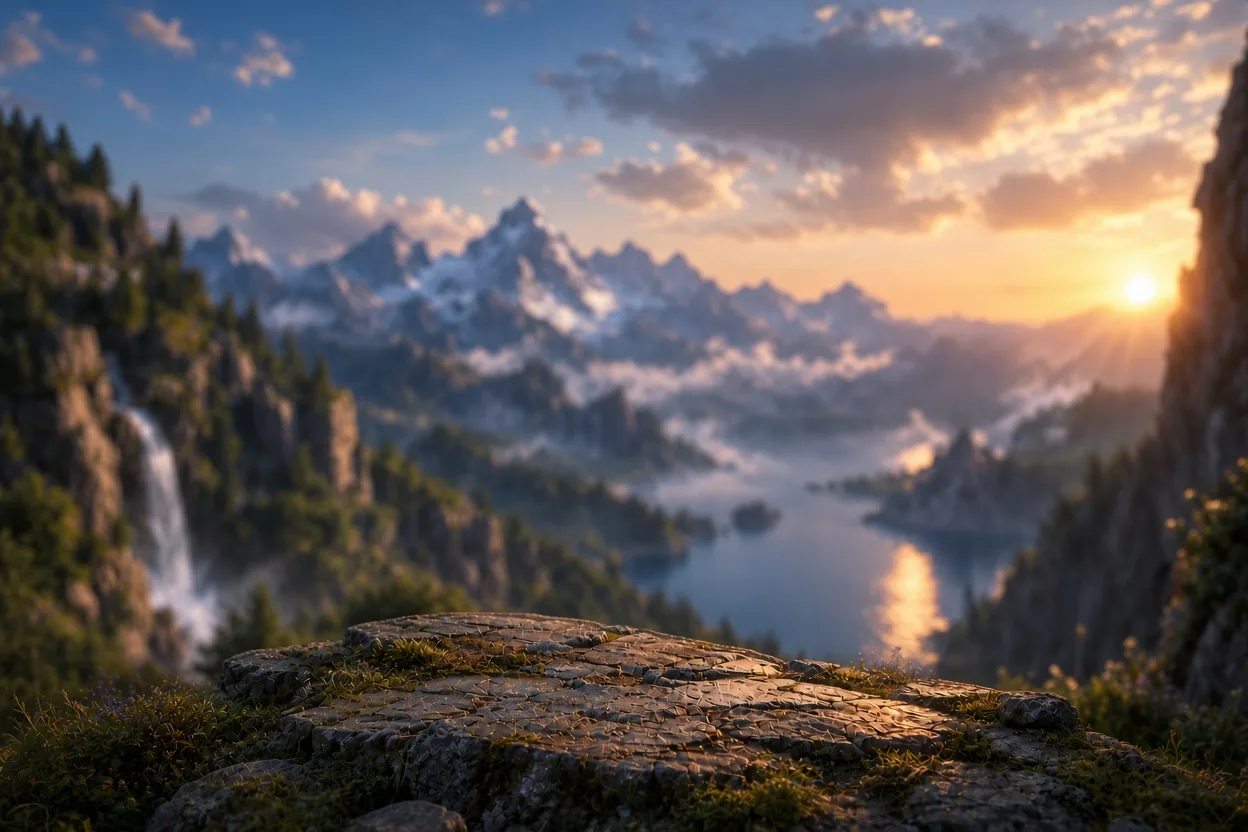
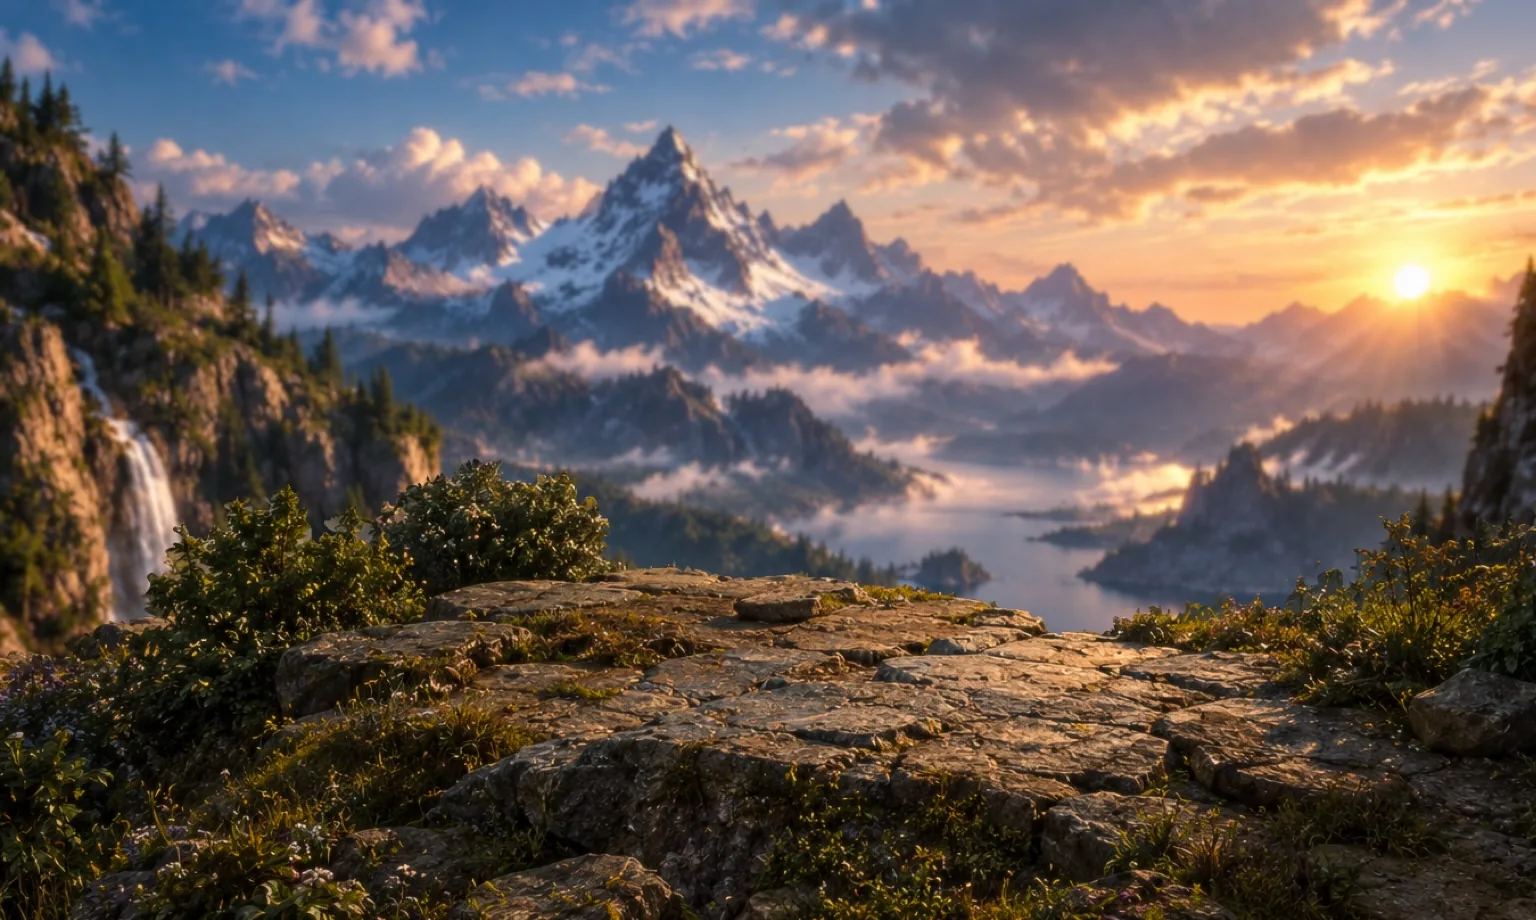
Инвентарь: новый фон (горы, водопад, каменный уступ), точка под героем перенесена на камень

diff --git a/src/client/inv/main.ts b/src/client/inv/main.ts
@@ -106,10 +106,10 @@ let pcInv: PcInventory | null = null;
 let heldHands: NonNullable<InvMsg["heldHands"]> = { left: null, right: null };
 
 /**
- * Фон страницы (public/inv/bg.webp): горы и камень. Середину верха камня (доли картинки) ставим
+ * Фон страницы (public/inv/bg.webp): горы, водопад и каменный уступ. Середину верха камня (доли картинки) ставим
  * под ноги героя на вкладке «Снаряжение»; картинка не меньше ширины страницы, ниже — плавно в тёмное.
  */
-const BG = { w: 1248, h: 832, fx: 650 / 1248, fy: 690 / 832 };
+const BG = { w: 1536, h: 920, fx: 768 / 1536, fy: 607 / 920 };
 const bgEl = document.getElementById("invBg");
 function placeBg(): void {
   if (!bgEl) return;
